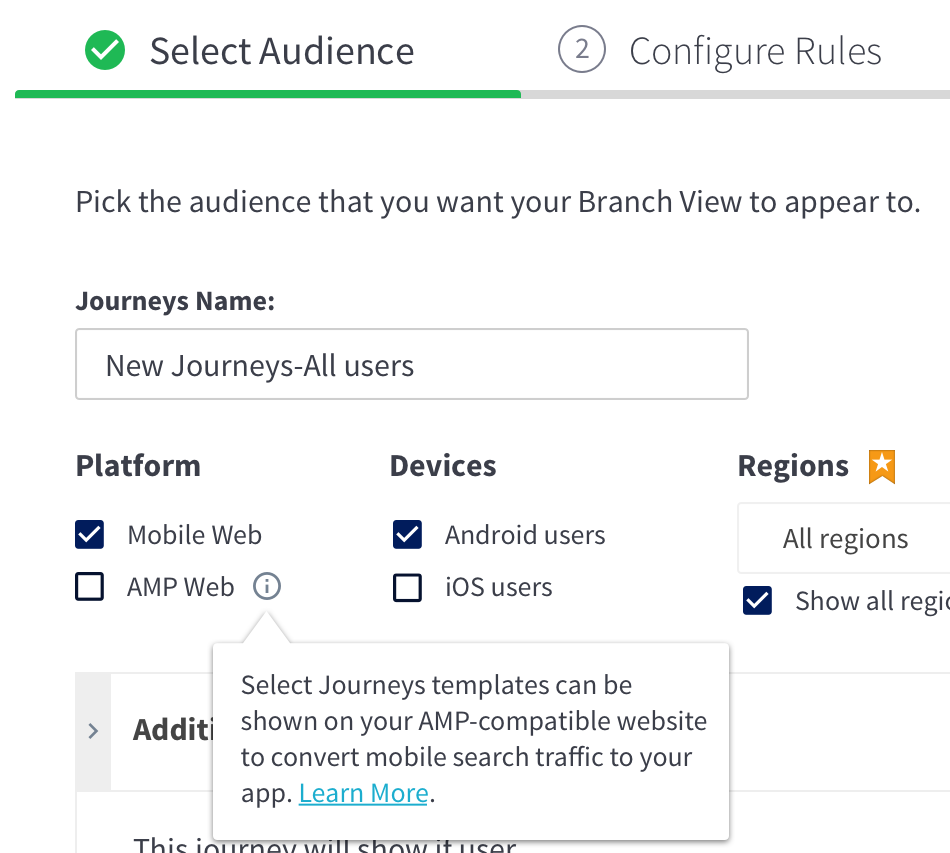
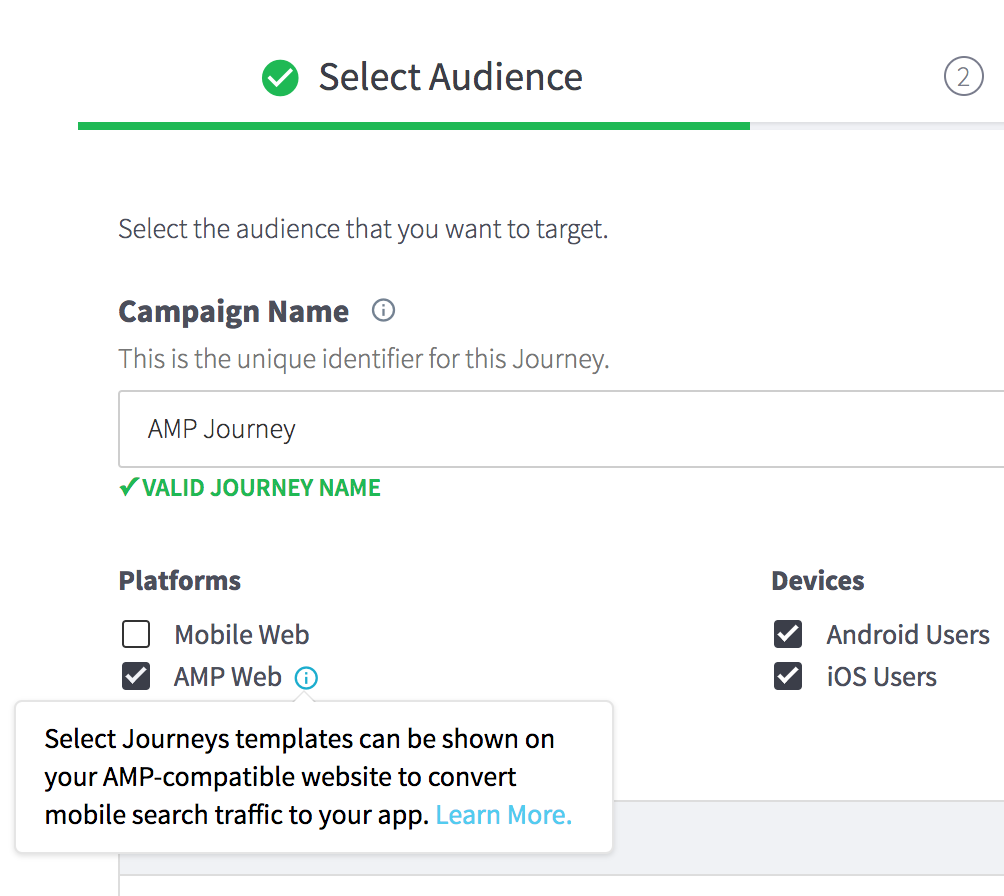
updated images for AMP, url-based targeting with amp, analytic with amp, canonical URL

diff --git a/pages/other/amp-journeys.md b/pages/other/amp-journeys.md
@@ -17,13 +17,13 @@ contents:
 
 {% if page.amp %}
 
-[Accelerated Mobile Pages (AMP)](https://www.ampproject.org/){:target="_blank"} are a way to build pages that serve static content so that they load in Google search results much faster. Google uses AMP to quickly serve content on mobile devices without users having to click through to a website to view the content, and Google prioritizes AMP pages at the top of mobile search results. 
+[Accelerated Mobile Pages (AMP)](https://www.ampproject.org/){:target="_blank"} are a way to build pages that serve static content so that they load in Google search results much faster. Google uses AMP to quickly serve content on mobile devices without users having to click through to a website to view the content, and AMP pages often appear at the top of mobile search results. 
 
-AMP pages by design make it difficult for users to go anywhere except back to Google search, and difficult for you to convert users to your website or your app. With AMP-compatible Journeys, you can convert mobile web traffic from Google search results to your app and take advantage of Google’s prioritization of AMP pages. Select Journeys templates can be shown on your AMP-compatible website.
+AMP pages by design make it difficult for users to go anywhere except back to Google search, and difficult for you to convert users to your website or your app. With AMP-compatible Journeys, you can convert mobile web traffic from Google search results to your app and take advantage of extra traffic from AMP pages. Select Journeys templates can be shown on your AMP-compatible website.
 
 {% prerequisite %}
 
-- To be prioritized in mobile search results, your webpage must be [AMP](https://www.ampproject.org/docs/){:target="_blank"}-compatible.
+- To be host AMP Journeys and show in Google search as an AMP page, your webpage must be [AMP](https://www.ampproject.org/docs/){:target="_blank"}-compatible.
 
 {% endprerequisite %}
 
@@ -40,6 +40,12 @@ Then add the modified snippet between the `<body></body>` tags of your AMP page,
 
 Finally, if you do not already have the following AMP scripts on your page, add them between the AMP page's `<head></head>` tags:
    {% highlight html %}<script async src="https://cdn.ampproject.org/v0/amp-list-0.1.js" custom-element="amp-list"></script><script async src="https://cdn.ampproject.org/v0/amp-mustache-0.1.js" custom-template="amp-mustache"></script><script async src="https://cdn.ampproject.org/v0/amp-iframe-0.1.js" custom-element="amp-iframe"></script>{% endhighlight %} 
+
+{% protip title="Include canonical URL for SEO and deep linking" %}
+[Google recommends](https://www.ampproject.org/docs/guides/discovery){:target="_blank"} that on your AMP page, you include a reference to the canonical URL of the non-AMP page with the same content. For example, you should include a tag like this in the `<head></head>` section of your AMP page:
+  {% highlight html %}<link rel="canonical" href="https://example.com/article.html">{% endhighlight %}
+This helps make your AMP page discoverable, and likely helps ensure that SEO information is shared between these two pages. Additionally, Branch automatically embeds the canonical URL in the Journey link data, leading to better identification of content and the ability to use this key for deep linking.
+{% endprotip %}
 
 ## Target AMP Web in your audience
 
@@ -60,13 +66,17 @@ Because cookies are restricted on both AMP and iOS, event-based audience rules o
 
 Once a user has clicked a Branch link outside of AMP, event-based audience rules will adhere to the regular web cookie for that user, and will work across AMP and non-AMP web.
 
+### URL-based targeting with AMP
+
+With AMP, Google will serve your page from the Google AMP cache. This means that the URL that serves your AMP page will look something like `https://www-example-com.cdn.ampproject.org/c/www.example.com/amp/doc.html`. For the advanced audience filter **Is viewing a page URL**, you'll want to use your AMP cache URL.
+
 ## Select an AMP-compatible template
 
-Once you have your audience selected, you can configure your templates. Currently, only **Branch Banner Bottom** is supported on AMP because Google requires that banners not show in the top 75% of an AMP page. Over time, Branch will add support for more Journeys templates.
+Once you have your audience selected, you can configure your templates. Currently, only **Branch Standard Banner Bottom** is supported on AMP because Google requires that banners not show in the top 75% of an AMP page. Over time, Branch will add support for more Journeys templates.
 
-When you click **Select Template** from the **Configure Views** step, the **AMP-compatible** view type should already be selected, showing you the Journeys templates that are compatible with AMP:
+When you click **Select Template** from the **Configure Views** step, the **standard bottom banner** view type should already be selected, showing you the Journeys templates that are compatible with AMP:
 
-{% image src='/img/pages/features/journeys/amp-select-template.png' center third alt='AMP-compatible templates' %}
+{% image src='/img/pages/features/journeys/amp-select-template.png' center half alt='AMP-compatible templates' %}
 
 Hover over the template and click **Create**.
 
@@ -127,6 +137,12 @@ You can also add deep link data to a Journey in the dashboard. In the **Customiz
 
 {% image src='/img/pages/features/journeys/amp-deep-link-data.png' center 3-quarters alt='Add rule' %}
 
+## AMP Journeys analytics
+
+Analytics for AMP Journeys works the [same way as for regular Journeys](/marketing-channels/journeys/guide/#visualizing-journeys-performance), in that you can see clicks, opens, installs, and custom events tied to your Journey by clicking **View Performance** from the actions menu for your AMP Journey.
+
+{% image src='/img/pages/features/journeys/view-performance.png' quarter center alt='view performance' %}
+
 ## AMP-specific restrictions
 
 Because javascript is limited on AMP and cookies are restricted on both AMP and iOS, AMP Journeys does not support all of standard Journeys functionality. The following Journeys features are affected:
@@ -136,6 +152,6 @@ Because javascript is limited on AMP and cookies are restricted on both AMP and 
 * [Dismiss period](/marketing-channels/journeys/guide/#dismiss) is not supported - after dismiss, Journeys will show again during the next AMP session.
 * [Client-side javascript controls](/marketing-channels/journeys/guide/#clientside-javascript-journeys-controls) are not supported.
 * Auto-opening the app with open_app: true is not supported.
-* [Deep linking with setBranchBiewData](/marketing-channels/journeys/guide/#deep-linking-from-the-banner-or-interstitial) is not supported. [Learn how](#deep-linking-with-amp) you can deep link to content from AMP pages.
+* [Deep linking with setBranchViewData](/marketing-channels/journeys/guide/#deep-linking-from-the-banner-or-interstitial) is not supported. [Learn how](#deep-linking-with-amp) you can deep link to content from AMP pages.
 
 {% endif %}
